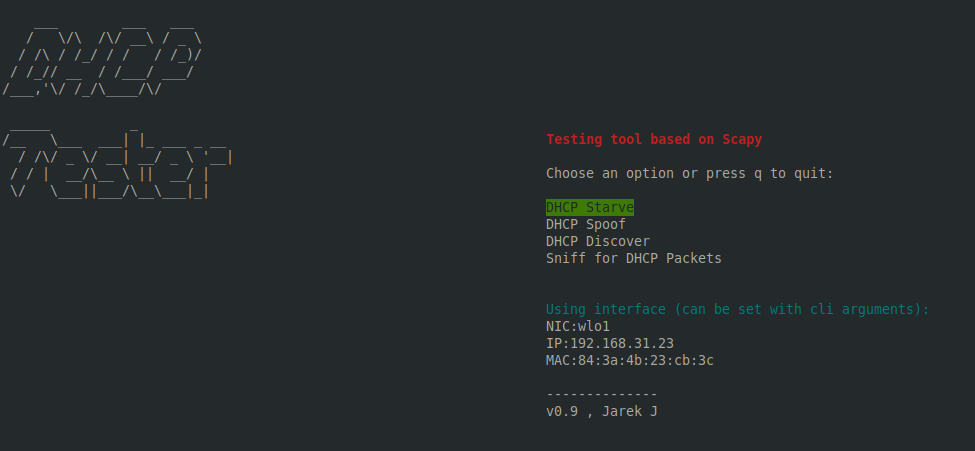
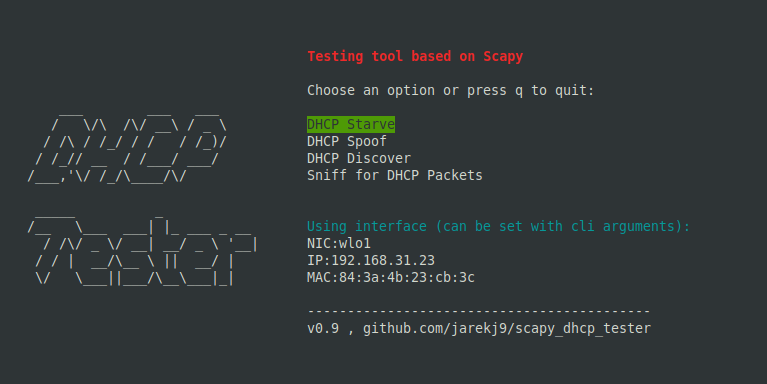
update

diff --git a/dhcpTester.py b/dhcpTester.py
@@ -243,7 +243,7 @@ class Menu:
                 
             #print big ascii title
             for y, line in enumerate(ASCIITITLE.splitlines(), 2):
-                self.stdscr.addstr(y, 2, line)
+                self.stdscr.addstr(self.start_y+y, self.start_x_title-35, line)
 
             # print texts
             self.stdscr.attron(curses.color_pair(2))

diff --git a/README.md b/README.md
@@ -3,6 +3,21 @@ My simple tool to test DHCP servers, written with scapy module. Menu has been ma
 
 Need to run as root because scapy needs access to interfaces.
 
+
+
+jarek@Elitebook:~/skrypty/scapy/dhcpTester$ sudo ./dhcpTester.py --help
+usage: dhcpTester.py [-h] [--dev DEV] [--ip IP] [--mac MAC]
+
+Needs to run as root. Program will try to autodetect network interface, IP and
+MAC, but you may specify it with arguments during launch.
+
+optional arguments:
+  -h, --help  show this help message and exit
+  --dev DEV   Interface name, example: eth0
+  --ip IP     Local interface IP address
+  --mac MAC   Local interface MAC address
+
+
 Options:
 
 DHCP Starve
